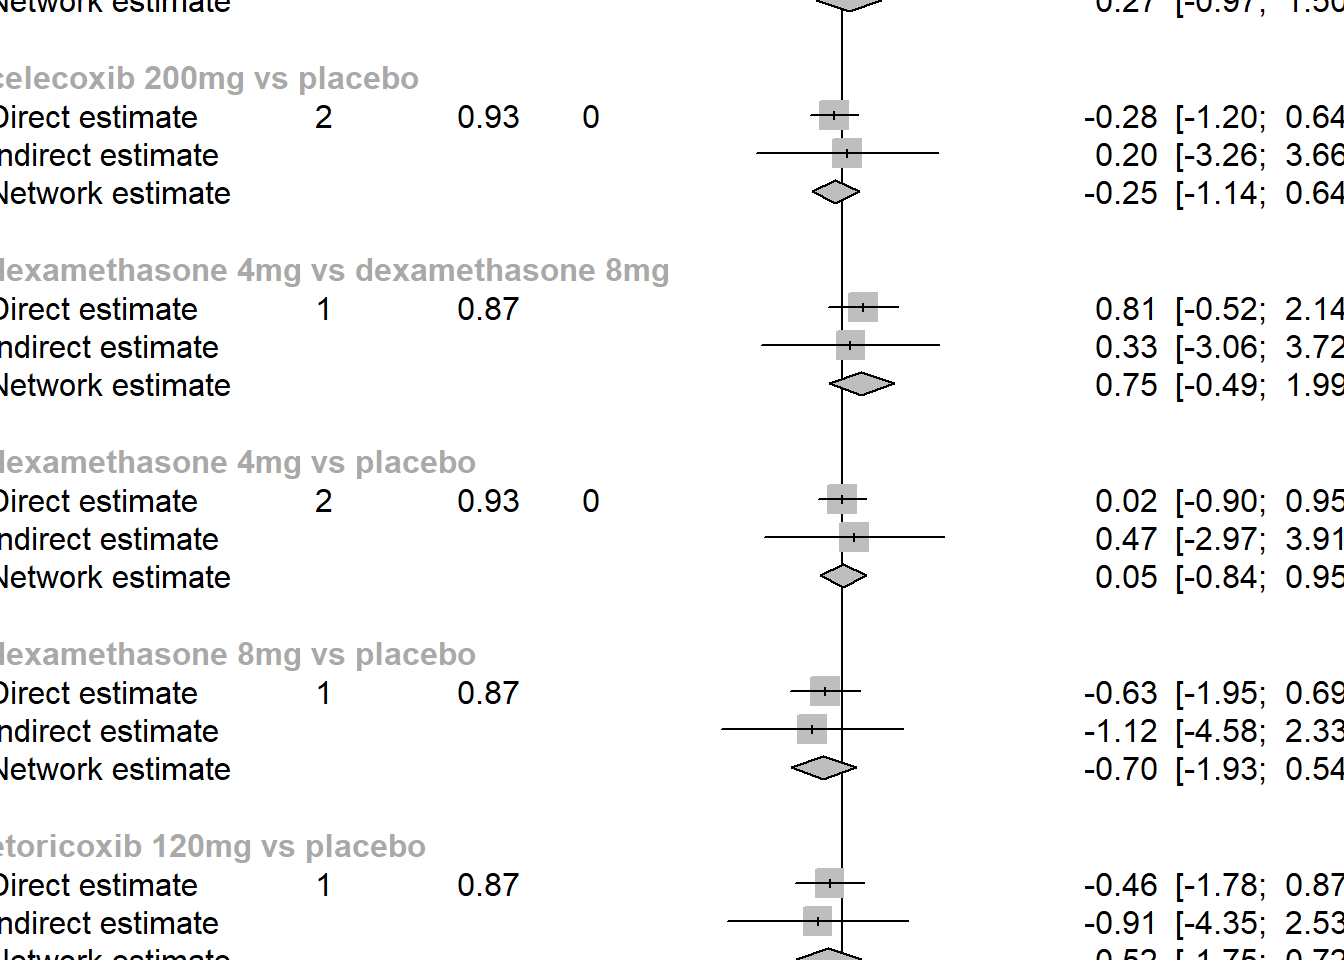
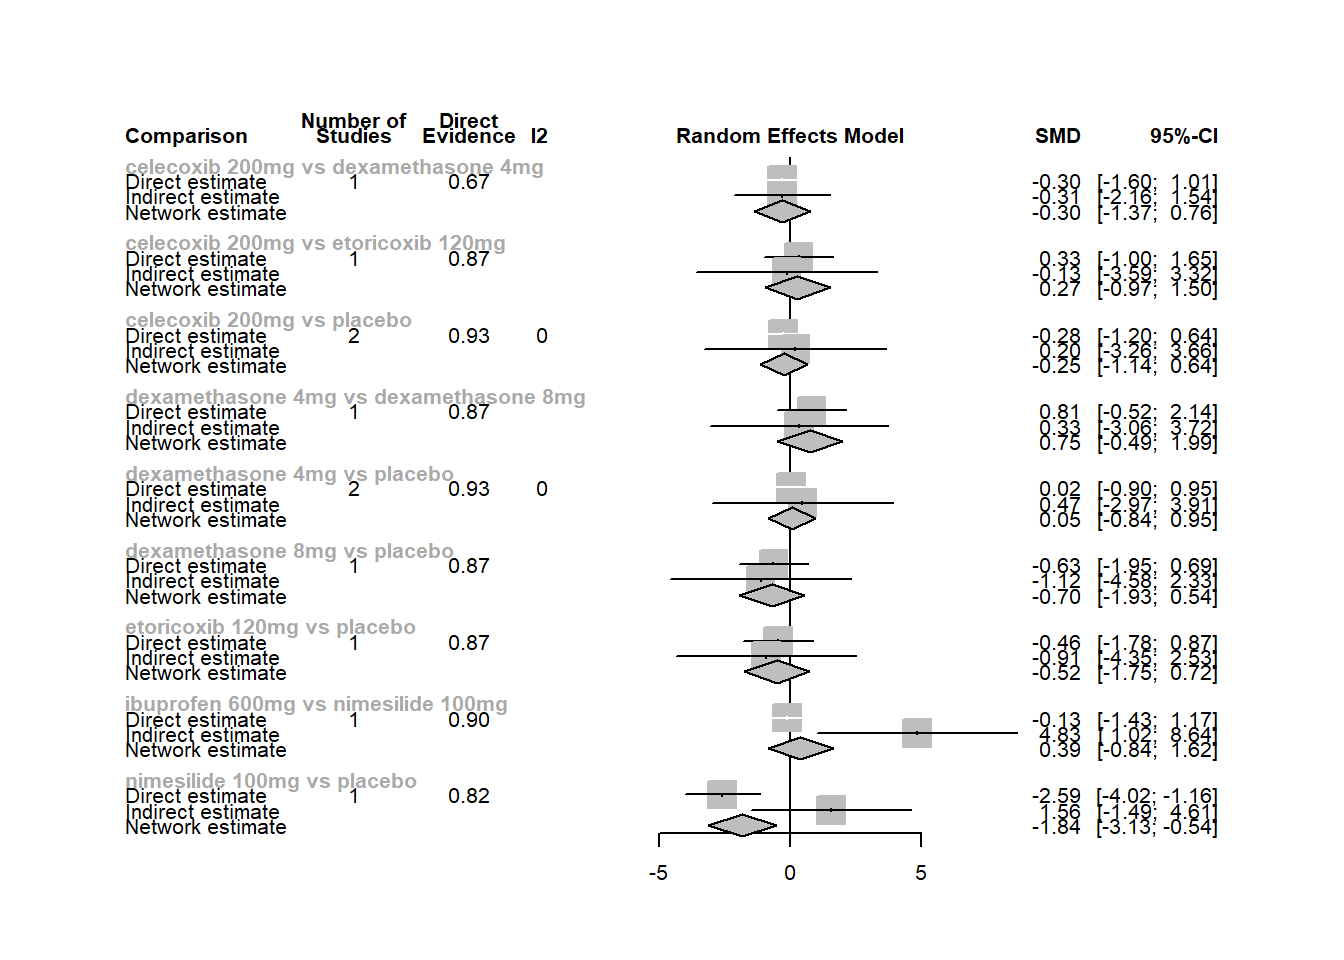
9/11/2024

diff --git a/docs/2023_0301_Christos_1hour.html b/docs/2023_0301_Christos_1hour.html
@@ -416,7 +416,7 @@ aria-hidden="true"></span> </a>
 <div class="tab-content">
 <div id="summary" class="tab-pane fade in active">
 <p>
-<strong>Last updated:</strong> 2024-09-10
+<strong>Last updated:</strong> 2024-09-11
 </p>
 <p>
 <strong>Checks:</strong> <span
@@ -576,15 +576,15 @@ analysis/Rfunctions.R
 <div class="panel panel-default">
 <div class="panel-heading">
 <p class="panel-title">
-<a data-toggle="collapse" data-parent="#workflowr-checks" href="#strongRepositoryversionstrongahrefhttpsgithubcomhan16Collaborationstree1754ebd922709048159383a3369803a2340e7885targetblank1754ebda">
+<a data-toggle="collapse" data-parent="#workflowr-checks" href="#strongRepositoryversionstrongahrefhttpsgithubcomhan16Collaborationstreefe99139b39ae2f97fa6956f72900d5df8d8cadeetargetblankfe99139a">
 <span class="glyphicon glyphicon-ok text-success"
 aria-hidden="true"></span> <strong>Repository version:</strong>
-<a href="https://github.com/han16/Collaborations/tree/1754ebd922709048159383a3369803a2340e7885" target="_blank">1754ebd</a>
+<a href="https://github.com/han16/Collaborations/tree/fe99139b39ae2f97fa6956f72900d5df8d8cadee" target="_blank">fe99139</a>
 </a>
 </p>
 </div>
 <div
[2 lines of base64/hex data omitted]
 class="panel-collapse collapse">
 <div class="panel-body">
 <p>
@@ -594,7 +594,7 @@ reproducibility.
 </p>
 <p>
 The results in this page were generated with repository version
-<a href="https://github.com/han16/Collaborations/tree/1754ebd922709048159383a3369803a2340e7885" target="_blank">1754ebd</a>.
+<a href="https://github.com/han16/Collaborations/tree/fe99139b39ae2f97fa6956f72900d5df8d8cadee" target="_blank">fe99139</a>.
 See the <em>Past versions</em> tab to see a history of the changes made
 to the R Markdown and HTML files.
 </p>
@@ -661,6 +661,40 @@ Message
 </tr>
 </thead>
 <tbody>
+<tr>
+<td>
+Rmd
+</td>
+<td>
+<a href="https://github.com/han16/Collaborations/blob/fe99139b39ae2f97fa6956f72900d5df8d8cadee/analysis/2023_0301_Christos_1hour.Rmd" target="_blank">fe99139</a>
+</td>
+<td>
+han
+</td>
+<td>
+2024-09-10
+</td>
+<td>
+9/10/2024
+</td>
+</tr>
+<tr>
+<td>
+html
+</td>
+<td>
+<a href="https://rawcdn.githack.com/han16/Collaborations/fe99139b39ae2f97fa6956f72900d5df8d8cadee/docs/2023_0301_Christos_1hour.html" target="_blank">fe99139</a>
+</td>
+<td>
+han
+</td>
+<td>
+2024-09-10
+</td>
+<td>
+9/10/2024
+</td>
+</tr>
 <tr>
 <td>
 Rmd
@@ -1246,11 +1280,13 @@ han
 </div>
 </div>
 <ul>
-<li>because <span class="math inline">\(confidence~interval=mean+/-1.96
+<li><p>both SMD and WMD produce same results</p></li>
+<li><p>because <span
+class="math inline">\(confidence~interval=mean+/-1.96
 \times\frac{SD}{\sqrt{sample~size}}\)</span>, so <span
 class="math inline">\(SD=\sqrt{sample~size}
 \times(CI~upper~limit-CI~lower~limit)/3.92\)</span>, then the raw mean
-difference could be calculated as</li>
+difference could be calculated as</p></li>
 </ul>
 <p><span class="math display">\[Total \times SD=Total \times
 \sqrt{sample~size} \times(CI~upper~limit-CI~lower~limit)/3.92 \]</span>
@@ -3235,7 +3271,11 @@ Between designs 10.02  3  0.0184          0           0</code></pre>
 <li><p>higher P-score, the better it is</p></li>
 <li><p>placebo is used as the reference group</p></li>
 </ul>
-<pre class="r"><code>netsplit(m.netmeta)</code></pre>
+</div>
+<div id="transitivity-analysis-consistency-between-direct-vs-indir"
+class="section level4">
+<h4>transitivity analysis (consistency between direct vs indir)</h4>
+<pre class="r"><code>netsplit(m.netmeta) </code></pre>
 <pre><code>Separate indirect from direct evidence (SIDE) using back-calculation method
 
 Random effects model: 
@@ -3291,8 +3331,10 @@ Legend:
 <ul>
 <li>netsplit was used to check the consistency among direct/indirect
 comparisons, with p values less than 5% being disagree</li>
+<li>only the last two comparisons show inconsistency with small p
+values.</li>
 </ul>
-<pre class="r"><code>netsplit(m.netmeta) %&gt;% forest()  # visualize the net split results </code></pre>
+<pre class="r"><code>netsplit(m.netmeta) %&gt;% forest(fontsize = 8, spacing = .4)  # visualize the net split results </code></pre>
 <p><img src="figure/2023_0301_Christos_1hour.Rmd/unnamed-chunk-36-1.png" width="672" style="display: block; margin: auto;" /></p>
 <p>
 <button type="button" class="btn btn-default btn-xs btn-workflowr btn-workflowr-fig" data-toggle="collapse" data-target="#fig-unnamed-chunk-36-1">
@@ -3331,7 +3373,7 @@ han
 </table>
 </div>
 </div>
-<pre class="r"><code>funnel(m.netmeta, order=unique(m.netmeta$treat1), pch=seq(1:12), col=seq(1:12), linreg = T,  legend = F, legend.pos=3,  cex.size=0.3, adj=c(0,0.1), merge=F)</code></pre>
+<pre class="r"><code>funnel(m.netmeta, order=unique(m.netmeta$treat1), pch=seq(1:12), col=seq(1:12), linreg = T,  legend = F, digits.pval=2)</code></pre>
 <p><img src="figure/2023_0301_Christos_1hour.Rmd/unnamed-chunk-37-1.png" width="672" style="display: block; margin: auto;" /></p>
 <p>
 <button type="button" class="btn btn-default btn-xs btn-workflowr btn-workflowr-fig" data-toggle="collapse" data-target="#fig-unnamed-chunk-37-1">
